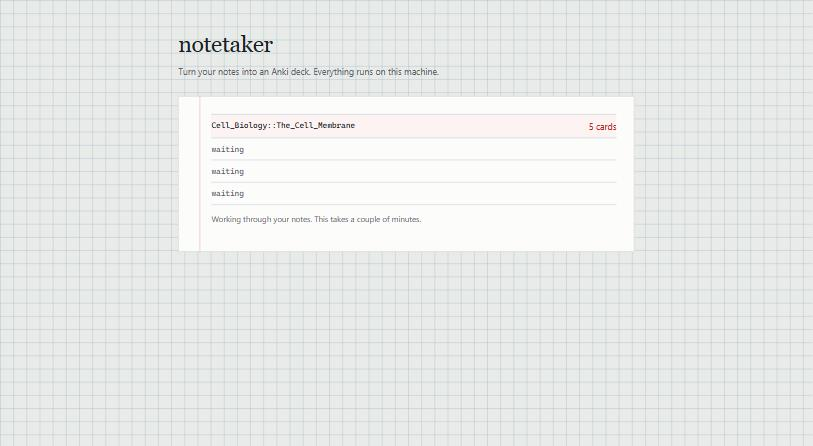
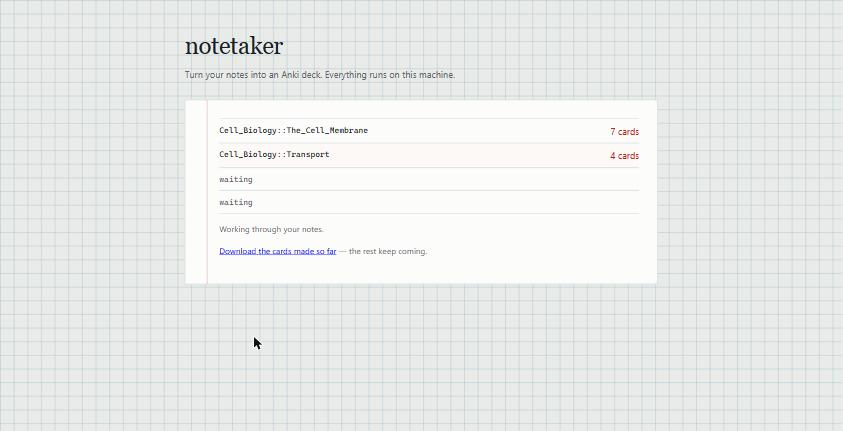
let cards be edited before download

diff --git a/src/notetaker/web/static/index.html b/src/notetaker/web/static/index.html
@@ -259,6 +259,9 @@
   td { padding: 0.7rem 1rem 0.7rem 0; border-bottom: 1px solid var(--guide); vertical-align: top; }
   td.tag { font-family: var(--mono); font-size: 0.82rem; color: var(--ink-soft); padding-right: 0; }
   td.why { font-size: 0.85rem; color: var(--rule); }
+  td.edit { cursor: text; }
+  td.edit:hover { background: #f3f6f3; }
+  td.edit:focus { outline: 2px solid var(--rule); outline-offset: -2px; background: #fff; }
   td.pick, th.pick { width: 2rem; padding-right: 0.5rem; }
   td.pick input, th.pick input { accent-color: var(--rule); }
   tr.dropped-row td:not(.pick) { opacity: 0.4; text-decoration: line-through; }
@@ -433,6 +436,7 @@
       <a id="dropped-file" href="#" hidden>Download dropped cards</a>
     </div>
     <p class="dropped" id="selected-line"></p>
+    <p class="dropped" id="edit-note">Click any question or answer to change it.</p>
     <table>
       <thead>
         <tr>
@@ -759,6 +763,40 @@
     });
   }
 
+  function commitEdit(cell) {
+    const card = currentJob.cards[Number(cell.dataset.index)];
+    const field = cell.dataset.field;
+    const text = cell.textContent.trim();
+
+    // A cloze card has no separate answer; anything else needs both sides.
+    const mayBeEmpty = field === "answer" && card.card_type === "cloze";
+    if (!text && !mayBeEmpty) {
+      cell.textContent = cell.dataset.before || card[field];
+      return;
+    }
+
+    if (text === card[field]) return;
+    card[field] = text;
+    cell.textContent = text;
+    saveCards();
+  }
+
+  function saveCards() {
+    el("edit-note").textContent = "Saving...";
+    fetch("/api/jobs/" + currentJob.id + "/cards", {
+      method: "POST",
+      headers: { "Content-Type": "application/json" },
+      body: JSON.stringify(currentJob.cards),
+    })
+      .then((response) => {
+        if (!response.ok) throw new Error("that change could not be saved");
+        el("edit-note").textContent = "Saved. Your downloads include the change.";
+      })
+      .catch((problem) => {
+        el("edit-note").textContent = problem.message;
+      });
+  }
+
   function chosenBoxes() {
     return Array.from(el("cards").querySelectorAll('input[type="checkbox"]'));
   }
@@ -814,8 +852,25 @@
 
       [card.question, card.answer, card.tags.join(" ")].forEach((text, column) => {
         const cell = document.createElement("td");
-        if (column === 2) cell.className = "tag";
         cell.textContent = text;
+
+        if (column === 2) {
+          cell.className = "tag";
+        } else {
+          cell.className = "edit";
+          cell.contentEditable = "true";
+          cell.spellcheck = false;
+          cell.dataset.index = index;
+          cell.dataset.field = column === 0 ? "question" : "answer";
+          cell.setAttribute("aria-label", column === 0 ? "Question" : "Answer");
+          cell.addEventListener("focus", () => { cell.dataset.before = cell.textContent; });
+          cell.addEventListener("blur", () => commitEdit(cell));
+          cell.addEventListener("keydown", (event) => {
+            if (event.key === "Enter") { event.preventDefault(); cell.blur(); }
+            if (event.key === "Escape") { cell.textContent = cell.dataset.before; cell.blur(); }
+          });
+        }
+
         row.appendChild(cell);
       });
 

diff --git a/src/notetaker/web/app.py b/src/notetaker/web/app.py
@@ -26,17 +26,18 @@ from collections.abc import AsyncIterator
 from contextlib import asynccontextmanager
 from dataclasses import dataclass, field
 from pathlib import Path
-from typing import Any
+from typing import Annotated, Any
 
-from fastapi import FastAPI, Form, HTTPException, UploadFile
+from fastapi import Body, FastAPI, Form, HTTPException, UploadFile
 from fastapi.responses import FileResponse, HTMLResponse
+from pydantic import ValidationError
 
 from notetaker.chunking import DEFAULT_MAX_CHARS, Chunk, chunk_markdown
 from notetaker.export import write_apkg, write_rejects, write_tsv
 from notetaker.generate import DEFAULT_MAX_CARDS_PER_CHUNK, generate_cards
 from notetaker.llm import FakeLLM, OllamaLLM
 from notetaker.llm.ollama import DEFAULT_MODEL, is_reasoning_model
-from notetaker.models import Card
+from notetaker.models import Card, CardType
 from notetaker.ocr import DEFAULT_VISION_MODEL, OcrError, read_pdf_with_ocr
 from notetaker.reader import UnreadableNotes, read_notes
 from notetaker.styles import STYLES
@@ -127,7 +128,12 @@ class Job:
             "error": self.error,
             "rejected": list(self.rejected),
             "cards": [
-                {"question": card.question, "answer": card.answer, "tags": list(card.tags)}
+                {
+                    "question": card.question,
+                    "answer": card.answer,
+                    "tags": list(card.tags),
+                    "card_type": str(card.card_type),
+                }
                 for card in self.cards
             ],
         }
@@ -296,6 +302,39 @@ def create_app() -> FastAPI:
     @app.get("/api/jobs/{job_id}")
     def status(job_id: str) -> dict[str, Any]:
         return jobs.get(job_id, "job").snapshot()
+
+    @app.post("/api/jobs/{job_id}/cards")
+    def edit_cards(job_id: str, cards: Annotated[list[dict], Body()]) -> dict[str, int]:
+        """Replace a job's cards with edited ones and rewrite the deck.
+
+        Dropping a bad card is easy; a card that is nearly right is the common
+        case, and retyping it in Anki afterwards defeats the point of the tool.
+        """
+        job: Job = jobs.get(job_id, "job")
+        if job.directory is None:
+            raise HTTPException(status_code=409, detail="That deck is not ready yet.")
+
+        try:
+            edited = [
+                Card(
+                    question=entry.get("question", ""),
+                    answer=entry.get("answer", ""),
+                    tags=list(entry.get("tags") or []),
+                    card_type=entry.get("card_type") or CardType.BASIC,
+                )
+                for entry in cards
+            ]
+        except ValidationError as exc:
+            raise HTTPException(status_code=400, detail="A card was left empty.") from exc
+
+        if not edited:
+            raise HTTPException(status_code=400, detail="No cards were given.")
+
+        stem = _stem(job)
+        write_apkg(edited, job.directory / f"{stem}.apkg", Path(job.name).stem)
+        write_tsv(edited, job.directory / f"{stem}.tsv")
+        jobs.update(job, cards=edited)
+        return {"cards": len(edited)}
 
     @app.get("/api/jobs/{job_id}/deck.{extension}")
     def download(job_id: str, extension: str, keep: str | None = None) -> FileResponse:

diff --git a/tests/test_web.py b/tests/test_web.py
@@ -378,3 +378,78 @@ def test_a_download_before_any_cards_is_refused(client) -> None:
 def test_the_page_offers_the_partial_download(client) -> None:
     page = client.get("/").text
     assert "Download the cards made so far" in page
+
+
+# --- editing a card that is nearly right --------------------------------------
+
+
+def edited(job: dict, index: int, **changes) -> list[dict]:
+    cards = [dict(card) for card in job["cards"]]
+    cards[index].update(changes)
+    return cards
+
+
+def test_an_edited_card_reaches_the_deck(client) -> None:
+    job_id = start(client, preview(client)["id"])
+    job = finish(client, job_id)
+
+    response = client.post(
+        f"/api/jobs/{job_id}/cards",
+        json=edited(job, 0, question="What does osmosis move?", answer="Water"),
+    )
+
+    assert response.status_code == 200
+    tsv = client.get(f"/api/jobs/{job_id}/deck.tsv").text
+    assert "What does osmosis move?" in tsv
+    assert job["cards"][0]["question"] not in tsv
+
+
+def test_an_edit_survives_into_the_package(client) -> None:
+    job_id = start(client, preview(client)["id"])
+    job = finish(client, job_id)
+
+    client.post(f"/api/jobs/{job_id}/cards", json=edited(job, 0, answer="Edited answer"))
+
+    assert client.get(f"/api/jobs/{job_id}/deck.apkg").content[:2] == b"PK"
+    assert client.get(f"/api/jobs/{job_id}").json()["cards"][0]["answer"] == "Edited answer"
+
+
+def test_an_empty_card_is_refused(client) -> None:
+    job_id = start(client, preview(client)["id"])
+    job = finish(client, job_id)
+
+    response = client.post(f"/api/jobs/{job_id}/cards", json=edited(job, 0, question=""))
+
+    assert response.status_code == 400
+    assert "empty" in response.json()["detail"]
+
+
+def test_sending_no_cards_is_refused(client) -> None:
+    job_id = start(client, preview(client)["id"])
+    finish(client, job_id)
+    assert client.post(f"/api/jobs/{job_id}/cards", json=[]).status_code == 400
+
+
+def test_editing_an_unknown_job_is_a_404(client) -> None:
+    response = client.post("/api/jobs/nope/cards", json=[{"question": "q", "answer": "a"}])
+    assert response.status_code == 404
+
+
+def test_a_cloze_card_keeps_its_type_when_edited(client) -> None:
+    job_id = start(client, preview(client)["id"], style="cloze")
+    job = finish(client, job_id)
+    assert job["cards"][0]["card_type"] == "cloze"
+
+    response = client.post(
+        f"/api/jobs/{job_id}/cards",
+        json=edited(job, 0, question="Osmosis moves {{c1::water}} across a membrane."),
+    )
+
+    assert response.status_code == 200
+    assert "#notetype:Cloze" in client.get(f"/api/jobs/{job_id}/deck.tsv").text
+
+
+def test_the_page_says_cards_can_be_edited(client) -> None:
+    page = client.get("/").text
+    assert "Click any question or answer to change it." in page
+    assert "contentEditable" in page

diff --git a/README.md b/README.md
@@ -57,9 +57,11 @@ Every section is listed up front and fills in as the model finishes with it.
 
 ![Sections filling in one at a time](docs/images/web-progress.jpg)
 
-At the end you get the cards in a table, each with a tick box. Untick anything
-that looks wrong before downloading, which is the quickest answer to a model
-that is right most of the time but not all of it.
+At the end you get the cards in a table. Untick anything you don't want, and
+click a question or answer to rewrite it — a model that is right most of the
+time still needs somewhere to fix the times it wasn't, and doing that here
+beats retyping it in Anki later. Edits save as you go, so the downloads always
+match what you see.
 
 Double-click the `.apkg` and Anki takes care of the rest. The `.tsv` is for when
 you'd rather look things over in a spreadsheet first.
@@ -203,7 +205,6 @@ several models and prints the cards so you can judge them yourself.
 
 - The checker drops about a third of cards, and whether that is correct or too
   eager has not been measured
-- Cards can be dropped before downloading, but not edited
 - Near-duplicates whose questions differ in wording but share an answer still
   get through
 
